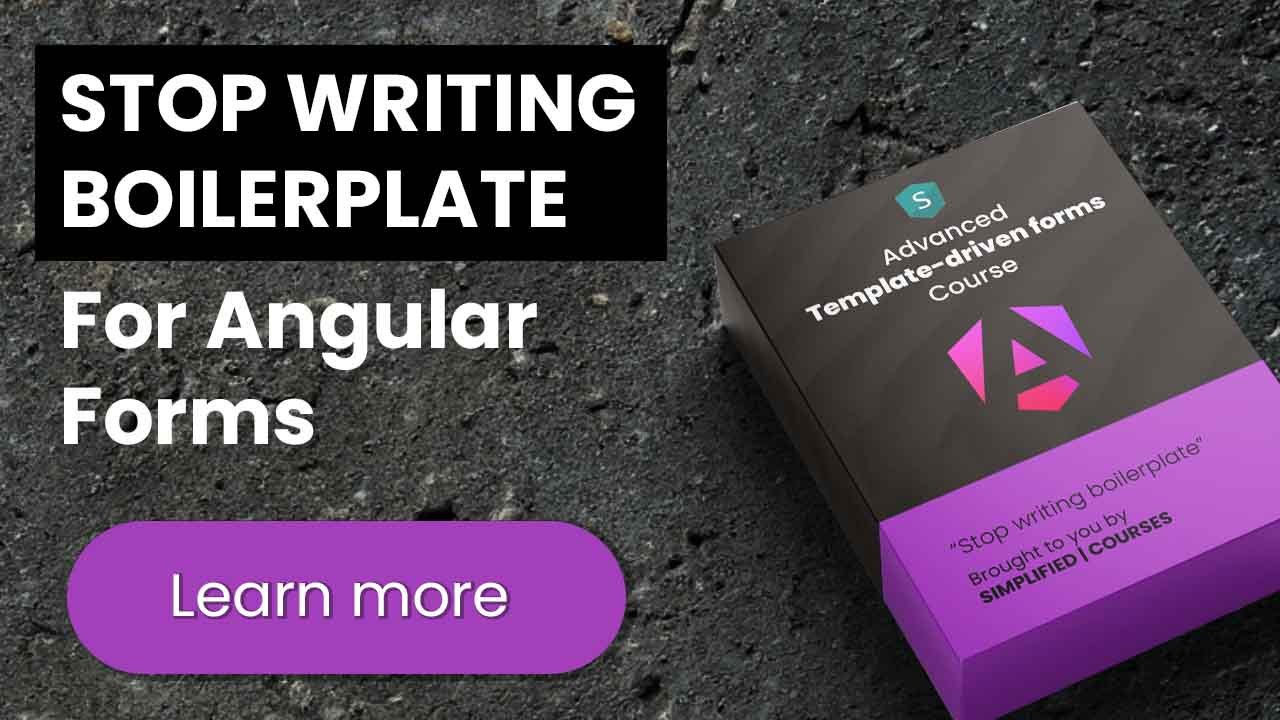
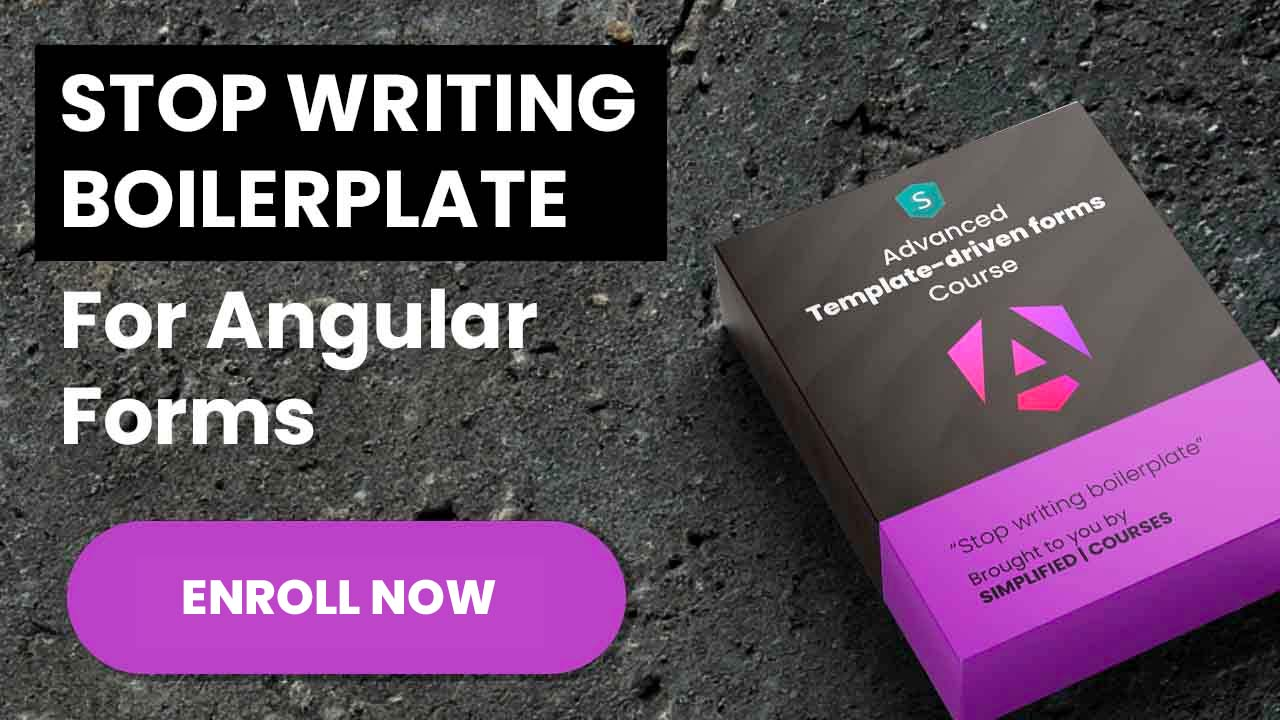
released new article

diff --git a/_layouts/post.html b/_layouts/post.html
@@ -53,7 +53,7 @@ layout: default
             <script src=https://www.simplified.courses/forms/2147985035/embed.js></script>    
         </div>
         <a class="workshop-link" href="https://www.simplified.courses/complex-angular-template-driven-forms" target="_blank">
-            <img  src="/assets/black-friday-deal.jpg" alt="Angular template driven forms course">
+            <img  src="/assets/angular-template-driven-forms-course.jpg" alt="Angular template driven forms course">
         </a>
         <script src="https://giscus.app/client.js"
         data-repo="simplifiedcourses/simplifiedcourses.github.io"

diff --git a/_posts/2023-11-26-asynchronous-form-validators-in-angular-with-vest.md b/_posts/2023-11-26-asynchronous-form-validators-in-angular-with-vest.md
@@ -1,9 +1,9 @@
 ---
 layout: post
 title: "Asynchronous Form Validators in Angular with Vest"
-date: 2023-11-19
+date: 2023-11-26
 published: true
-cover: assets/asynchronous-form-validators-in-angular-with-vest.jpg
+cover: assets/async-form-validators-in-angular-with-vest.jpg
 comments: true
 categories: [Angular, Angular Forms]
 description: "In this article, we will create asynchronous form validators for Angular in our vest suites"
@@ -11,9 +11,11 @@ description: "In this article, we will create asynchronous form validators for A
 
 # Intro
 
-In this article, we are going to tackle Asynchronous Validations in Angular with Vest.js
+In this article, we are going to tackle Asynchronous Validations in Angular with Vest.js.
 
-Previously we learned that we can use [vest.js]() to write validation suites.
+Not a fan of the written word? Check out the YouTube video [here](https://youtu.be/pYDXY3Yo8kM){:target="_blank"}!
+
+Previously we learned that we can use [vest.js](https://vestjs.dev/){:target="_blank"} to write validation suites.
 The advantage of a validation suite is:
 - It's framework agnostic
 - It's reusable
@@ -24,9 +26,9 @@ The advantage of a validation suite is:
 Validations become a breeze when using vest.js!
 With very limited code we can write beautiful suites that can be reused everywhere in the frontend but also in the backend.
 
-After that, I explained that we use directives to connect angular validator functions to our vest suites. I open-sourced the entire thing and you can play with that [here]().
+After that, I explained that we use directives to connect angular validator functions to our vest suites. I open-sourced the entire thing and you can play with that [here](https://www.simplified.courses/forms){:target="_blank"}.
 
-We even [optimized these validations suites]() so that we can pass a `validationConfig` object that states which controls their validators should be run when a certain control is updated.
+We even [optimised these validations suites](https://blog.simplified.courses/optimise-conditional-validators-for-angular-forms/){:target="_blank"} so that we can pass a `validationConfig` object that states which controls their validators should be run when a certain control is updated.
 
 Most of the time this covers all of our use cases but sometimes we need to validate based on data that is living in our backend.
 Here are some use cases of when we would need an asynchronous validation:
@@ -44,10 +46,7 @@ For that, we can use a factory function.
 So instead of doing:
 
 ```typescript
-import { User } from '../types/user';
-import { test, enforce, create } from "vest";
-
-export const userValidations = create((model: FormModel, field: string) => {
+export const simpleFormValidations = create((model: SimpleFormModel, field: string) => {
     only(field);
     test('firstName', 'First name is required', () => {
         enforce(model.firstName).isNotBlank();
@@ -58,37 +57,36 @@ export const userValidations = create((model: FormModel, field: string) => {
 We should do:
 
 ```typescript
-export const createUserValidations = (userService: UserService) => {
-    return create((model: FormModel, field: string) => {
+export const createSimpleFormValidations = (swapiService: SwapiService) => {
+    return create((model: SimpleFormModel, field: string) => {
         only(field);
-        test('firstName', 'First name is required', () => {
-            enforce(model.firstName).isNotBlank();
+
+        omitWhen(!model.userId, () => {
+            test('userId', 'User id is already taken', async ({ signal }) => {
+                await lastValueFrom(
+                    swapiService
+                        .searchUserById(model.userId as string)
+                        .pipe(takeUntil(fromEvent(signal, 'abort')))
+                ).then(
+                    () => Promise.reject(),
+                    () => Promise.resolve()
+                );
+            });
         });
-    })
-};
+    });
+}
 ```
 
 We could also pass asynchronous functions if we would want to reuse it in another framework:
 
-```typescript
-export const createUserValidations = (getUser: (userId:string) => Promise<User>) => {
-    return create((model: FormModel, field: string) => {
-        only(field);
-        test('firstName', 'First name is required', () => {
-            enforce(model.firstName).isNotBlank();
-        });
-    })
-};
-```
 
-The component where we call `createUserValidations()` could look like this:
+The component where we call `createSimpleFormValidations()` could look like this:
 
 ```typescript
-export class Form {
-    // Inject the userService
-    private readonly userService = inject(UserService);
-    private readonly getUser = (userId: string) => lastValueFrom(this.userService.get(userId))
-    protected readonly suite = createUserValidations(this.getUser);
+export class SimpleFormComponent {
+    protected readonly swapiService = inject(SwapiService);
+    protected readonly suite = createSimpleFormValidations(this.swapiService);
+    protected readonly formValue = signal<SimpleFormModel>({})
 }
 ```
 
@@ -97,32 +95,71 @@ export class Form {
 Vest asynchronous validations work with promises. For that we can use the async await syntax.
 
 ```typescript
-export const createUserValidations = (getUser: (userId:string) => Promise<User>) => {
-    return create((model: FormModel, field: string) => {
+export const createSimpleFormValidations = (swapiService: SwapiService) => {
+    return create((model: SimpleFormModel, field: string) => {
         only(field);
-        omitWhen((!model.userId), () => {
-            test('userId', 'userId is already taken', async () => {
-                await getUser(model.userId as string).then(
-                    // User exists, reject because it shouldn't exist
-                    () => Promise.reject(),
-                    // User does not exist, no validation error
-                    () => Promise.resolve()
+
+        // Only execute when there is a user
+        omitWhen(!model.userId, () => {
+            // Our test
+            test('userId', 'User id is already taken', async () => {
+                // Convert to promise
+                await lastValueFrom(
+                    // Call the backend
+                    swapiService.searchUserById(model.userId as string)
+                ).then(
+                    () => Promise.reject(), // 200 ==> INVALID
+                    () => Promise.resolve() // 400 ==> VALID
                 );
             });
         });
-    })
+    });
 };
 ```
 
+When the backend returns a 404, it means the user does not exist, so the field would be valid.
+The other way around when the result of the backend is 200, the field should be invalid!
+
 ## Abort signal
+
+If we type multiple times this would result in multiple calls that are being made at the same time.
+Ideally we want to cancel the previous calls. For that Vest has provided an abort signal for us.
+We would use that signal in combination with the `takeUntil` operators from RxJS to stop the call if a new
+validation is happening.
+We would get the signal as an argument of our asynchronous function:
+
+```typescript
+test('userId', 'User id is already taken', async ({ signal }) => {
+    ...
+});
+```
+Then on the result observable we would take the `abort` event from our signal and clean it up with `takeUntil`:
+This is the final result:
+
+```typescript
+omitWhen(!model.userId, () => {
+    test('userId', 'User id is already taken', async ({ signal }) => {
+        // Convert to promise
+        await lastValueFrom(
+            swapiService
+                .searchUserById(model.userId as string)
+                // Clean up open requests
+                .pipe(takeUntil(fromEvent(signal, 'abort')))
+        ).then(
+            () => Promise.reject(), // 200 ==> INVALID
+            () => Promise.resolve() // 400 ==> VALID
+        );
+    });
+});
+```
 
 ## How does it work
 
-To start using this you just need to copy-paste the `templateDrivenForms` directory from [here]()
-We won't go in to depth into the internals in this article, we explain it in depth in the course though if the code
-wouldn't be self-explanatory
+To start using this you just need to copy-paste the `templateDrivenForms` directory from [here](https://stackblitz.com/~/github.com/simplifiedcourses/template-driven-forms){:target="_blank"}
+We won't go to deep into the internals in this article, we explain it in depth in the course though if the code
+wouldn't be self-explanatory. In [this YouTube video](https://youtu.be/pYDXY3Yo8kM){:target="_blank"}, it is also explained.
 
-We use a custom directive that hooks into the `[ngModel]` selector.
+In short: We use a custom directive that hooks into the `[ngModel]` selector.
 That selector implements the `AsyncValidator` interface and gets the following values from the `FormDirective`
 that hooks into the `form` selector:
 - `ngForm`: A reference to the Angular form
@@ -159,7 +196,7 @@ export class FormModelDirective implements AsyncValidator {
 }
 ```
 
-You can check the file [here]()
+You can check the file [here](https://stackblitz.com/edit/stackblitz-starters-uooinv?file=src%2Fapp%2Ftemplate-driven-forms%2Fform-model.directive.ts){:target="_blank"}
 
 The `createAsyncValidator()` function looks like this:
 
@@ -187,6 +224,16 @@ export function createAsyncValidator<T>(
 }
 ```
 
-You can check that [here]()
+You can check that [here](https://stackblitz.com/edit/stackblitz-starters-uooinv?file=src%2Fapp%2Ftemplate-driven-forms%2Futils.ts){:target="_blank"}
 
-### Debouncing the values
+### Wrapping up
+
+Before I wrap up, have some fun with the [Stackblitz example here](https://stackblitz.com/edit/stackblitz-starters-uooinv){:target="_blank"}
+
+- Asynchronous validators can be great to validate based on data that lives on the server
+- We can add asynchronous functions in our vest suites with async await
+- There is an abort signal that helps us clean up open ajax calls
+- We created async validator logic that is part of [my free boilerplate](https://simplified.courses/forms){:target="_blank"}
+- We have no boilerplate anymore and everything just works
+
+I hope you enjoyed, if you do, subscribe, spread, drop me a message 🥰🥰🥰
